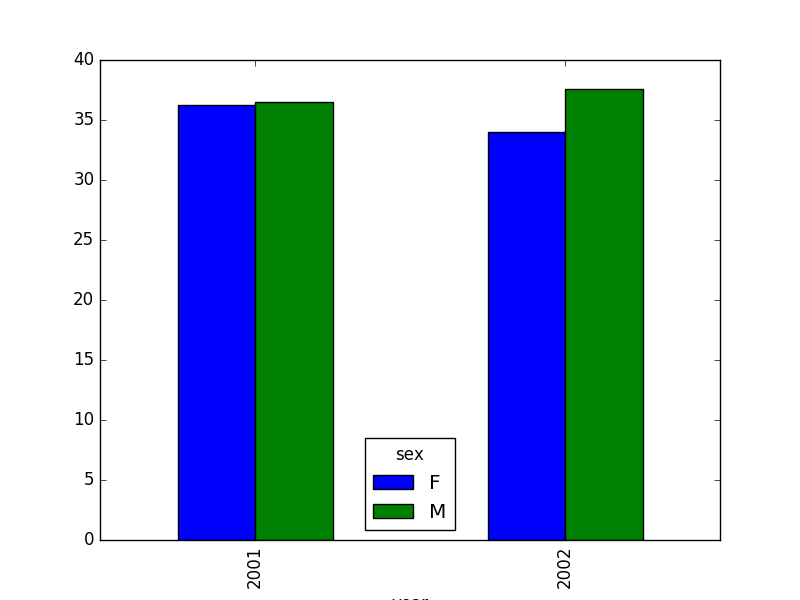
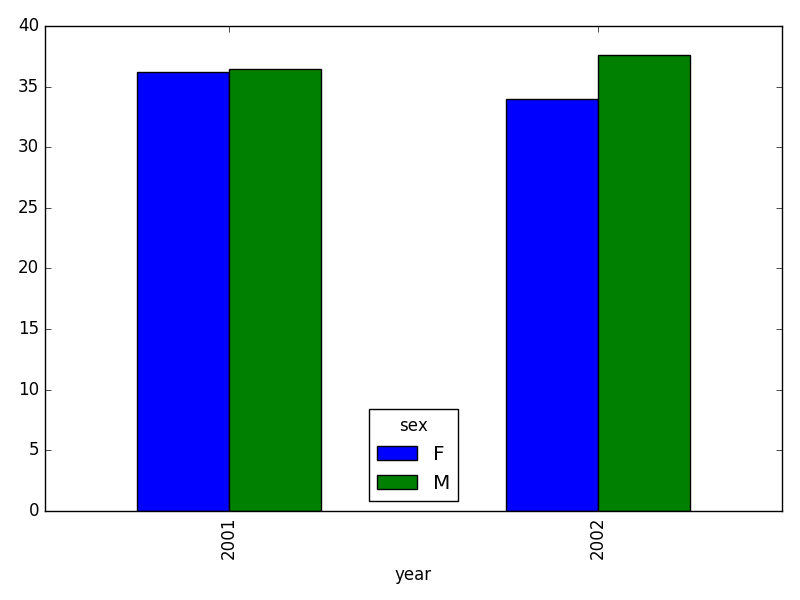
update 04 challenges final section

diff --git a/INSTRUCTORS.md b/INSTRUCTORS.md
@@ -140,11 +140,119 @@ Get the weight for each year, grouped by sex:
 `weight_year = survey_all.groupby(['year', 'sex']).mean()["wgt"].unstack()`
 Plot: 
 `weight_year.plot(kind="bar")`
+`plt.tight_layout()`
 ![average weight for each year, grouped by sex](./img/04_chall_weight_year.png)
 Writing to file:
 `weight_year.to_csv("weight_for_year.csv")`
 Reading it back in:
 `pd.read_csv("weight_for_year.csv", index_col=0)`
+
+* Create a new DataFrame by joining the contents of the surveys.csv and species.csv tables. 
+
+`merged_left = pd.merge(left=surveys,right=species, how='left', on="species_id")`
+
+Then calculate and plot the distribution of: 
+
+**1. taxa per plot** (number of specis of each taxa per plot):
+
+Species distribution (number of taxa for each plot) can be derived as follows:
+```python
+merged_left.groupby(["plot_id"])["taxa"].nunique().plot(kind='bar')
+```
+
+![taxa per plot](./img/04_chall_ntaxa_per_plot.png)
+
+It is also possible to plot the number of individuals for each taxa in each plot (stacked bar chart):
+```python
+merged_left.groupby(["plot_id", "taxa"]).count()["record_id"].unstack().plot(kind='bar', stacked=True)
+plt.legend(loc='upper center', ncol=3, bbox_to_anchor=(0.5, 1.05))
+```
+(the legend otherwise overlaps the bar plot)
+
+![taxa per plot](./img/04_chall_taxa_per_plot.png)
+
+**2. taxa by sex by plot**:
+Providing the Nan values with the M|F values (can also already be changed to 'x'):
+```python
+merged_left.loc[merged_left["sex"].isnull(), "sex"] = 'M|F'
+```
+
+Number of taxa for each plot/sex combination:
+```python
+ntaxa_sex_plot = merged_left.groupby(["plot_id", "sex"])["taxa"].nunique().reset_index(level=1)
+ntaxa_sex_plot = ntaxa_sex_plot.pivot_table(values="taxa", columns="sex", index=ntaxa_sex_plot.index)
+ntaxa_sex_plot.plot(kind="bar", legend=False)
+plt.legend(loc='upper center', ncol=3, bbox_to_anchor=(0.5, 1.08),
+           fontsize='small', frameon=False)
+```
+
+![taxa per plot per sex](./img/04_chall_ntaxa_per_plot_sex.png)
+
+**Optional extension (for discussion only)**: 
+
+The number of individuals for each taxa in each plot pet sex can be derived as well
+
+```python
+sex_taxa_plot  = merged_left.groupby(["plot_id", "taxa", "sex"]).count()['record_id']
+sex_taxa_plot.unstack(level=[1, 2]).plot(kind='bar', logy=True)
+plt.legend(loc='upper center', ncol=3, bbox_to_anchor=(0.5, 1.15), 
+           fontsize='small', frameon=False)
+```
+
+![taxa per plot per sex](./img/04_chall_sex_taxa_plot_intro.png)
+
+This is not really the best plot choice: not readable,... A first opion to make this better, is to make facets. However, pandas/matplotlib doe not provide this by default. Just as a pure matplotlib example (`M|F` if for not-defined sex records):
+
+```python
+fig, axs = plt.subplots(3, 1)
+for sex, ax in zip(["M", "F", "M|F"], axs):
+    sex_taxa_plot[sex_taxa_plot["sex"] == sex].plot(kind='bar', ax=ax, legend=False)
+    ax.set_ylabel(sex)
+    if not ax.is_last_row():
+        ax.set_xticks([])
+        ax.set_xlabel("")
+axs[0].legend(loc='upper center', ncol=5, bbox_to_anchor=(0.5, 1.3), 
+              fontsize='small', frameon=False)
+```
+
+![taxa per plot per sex](./img/04_chall_sex_taxa_plot.png)
+
+However, it would be better to link to [Seaborn](https://stanford.edu/~mwaskom/software/seaborn/)  and [Altair](https://github.com/ellisonbg/altair)  for tis kind of multivariate visualisations. 
+
+* In the data folder, there is a plot CSV that contains information about the type associated with each plot. Use that data to summarize the number of plots by plot type.
+
+```python
+plot_info = pd.read_csv("data/plots.csv")
+plot_info.groupby("plot_type").count()
+```
+
+* Calculate a diversity index of your choice for control vs rodent exclosure plots. The index should consider both species abundance and number of species. You might choose to use the simple biodiversity index described here which calculates diversity as `the number of species in the plot / the total number of individuals in the plot = Biodiversity index.`
+
+```python
+merged_plot_type = pd.merge(merged_left, plot_info, on='plot_id')
+# For each plot, get the number of species for each plot
+nspecies_plot = merged_plot_type.groupby(["plot_id"])["species"].nunique().rename("nspecies")
+# For each plot, get the number of individuals
+nindividuals_plot = merged_plot_type.groupby(["plot_id"]).count()['record_id'].rename("nindiv")
+# combine the two series
+diversity_index = pd.concat([nspecies_plot, nindividuals_plot], axis=1)
+# calculate the diversity index
+diversity_index['diversity'] = diversity_index['nspecies']/diversity_index['nindiv']
+```
+
+Making a bar chart:
+
+```python
+diversity_index['diversity'].plot(kind="barh")
+plt.xlabel("Diversity index")
+```
+
+![taxa per plot per sex](./img/04_chall_diversity_index.png)
+
+
+## 05
+
+
 
 
 
